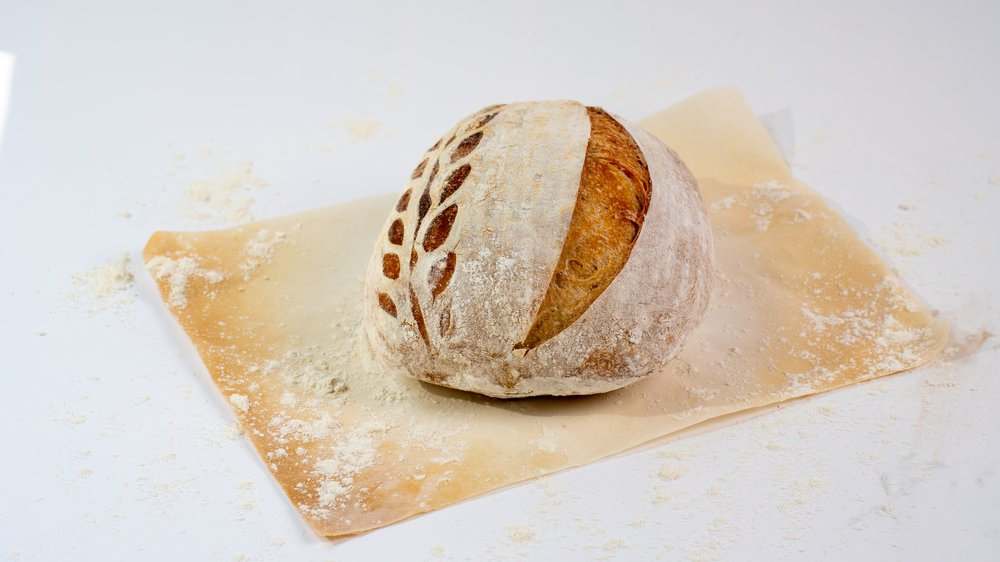
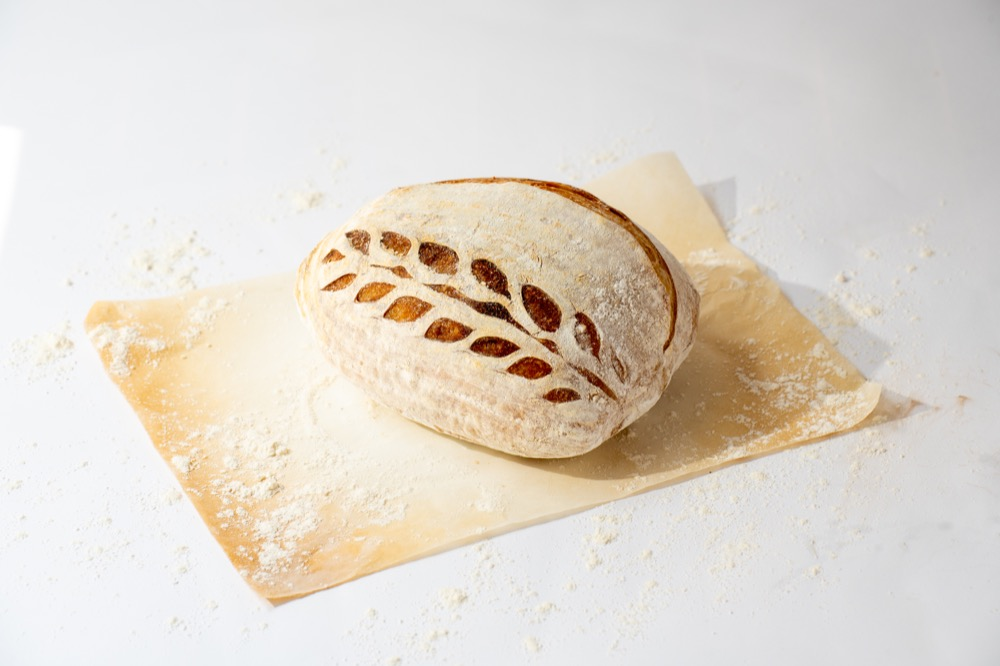
perf: optimize carousel and section images, add deploy skill

diff --git a/.agents/skills/deploy-changes/SKILL.md b/.agents/skills/deploy-changes/SKILL.md
@@ -1,0 +1,32 @@
+---
+name: deploy-changes
+description: Commits the current code changes to a new branch, pushes to origin, and creates a GitHub Pull Request using the gh CLI. Trigger this when the user asks to "deploy changes", "create a PR", or "commit and PR".
+---
+
+# Deploy Changes Skill
+
+This skill helps you automate the process of committing your code, pushing it to a remote branch, and creating a GitHub Pull Request.
+
+## Prerequisites
+
+Before executing these steps, ensure:
+1. The user has provided an intent or you have finished making changes.
+2. You have the `git` and `gh` CLI available.
+
+## Steps to Execute
+
+1. **Check Status**: Run `git status` to identify modified and untracked files.
+2. **Determine Branch**: 
+   - If you are on `main` or `master`, create and checkout a new branch (e.g., `git checkout -b fix-xyz`).
+   - If you are already on a feature branch, you can skip this step unless instructed otherwise.
+3. **Stage Changes**: Add the modified files using `git add <files>...` or `git add .`.
+4. **Commit**: Run `git commit -m "<Descriptive commit message>"`.
+5. **Push**: Push the branch to the remote repository using `git push -u origin <branch-name>`.
+6. **Create PR**: Run `gh pr create --title "<PR Title>" --body "<PR Description>"` to open the pull request. Wait for the command to return the PR URL.
+7. **Report**: Inform the user that the PR has been created and provide them with the URL returned by the `gh` command.
+
+## Important Notes
+
+- Do not attempt to run `gh pr create` without having committed and pushed the changes to the remote first.
+- If the PR requires a specific target branch, use `gh pr create --base <branch>`.
+- Make sure to use descriptive commit messages and PR titles based on the changes you made in the conversation.
